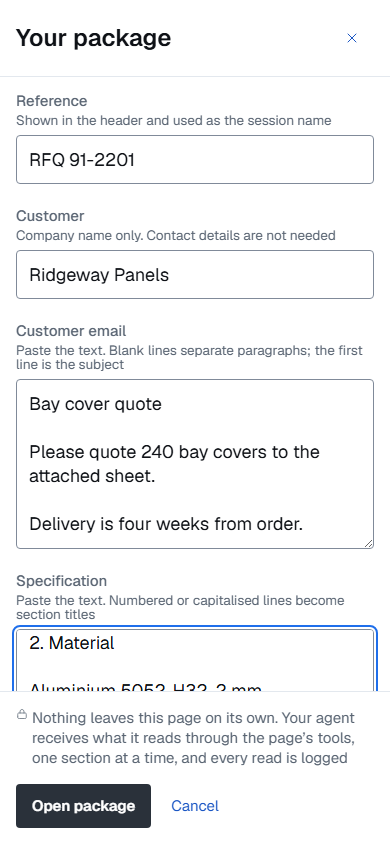
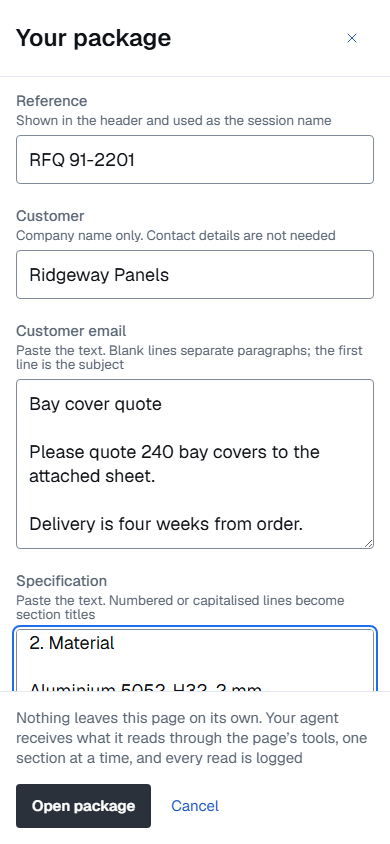
P5 fix: the privacy line stands on its words
A padlock sat in front of the one sentence on the page that makes a claim about
where a person's data goes, and an icon there decorates a claim rather than
carrying it. The line is plain secondary text now, on the same lane as the
actions under it. The task file's dialog item and the DESIGN.md dialog entry
say so, and the unit test that reads the sentence also asserts there is no
glyph beside it.

Changed region(s): [[0.0308, 0.8318, 0.9538, 0.9242]]

diff --git a/src/components/OpenPackageDialog.tsx b/src/components/OpenPackageDialog.tsx
@@ -1,6 +1,6 @@
 import { useEffect, useId, useRef, useState, type FormEvent } from 'react';
 import { ACCEPTED_IMAGE_TYPES, prepareDrawing as prepare_, type DrawingErrorCode } from '../data/prepare-drawing';
-import { CrossIcon, LockIcon } from '../icons';
+import { CrossIcon } from '../icons';
 import { Button } from './Button';
 
 /**
@@ -248,8 +248,10 @@ export function OpenPackageDialog({
         </div>
 
         <footer className="dialog__footer">
+          {/* Text alone: a padlock in front of this would decorate a claim about
+              where data goes, and that is the one claim on the page that has to
+              stand on its words. */}
           <p className="dialog__privacy">
-            <LockIcon />
             Nothing leaves this page on its own. Your agent receives what it reads through the page’s tools,
             one section at a time, and every read is logged
           </p>

diff --git a/src/components/OpenPackageDialog.test.tsx b/src/components/OpenPackageDialog.test.tsx
@@ -68,6 +68,9 @@ describe('the dialog’s form', () => {
       'Nothing leaves this page on its own. Your agent receives what it reads through the page’s tools, ' +
       'one section at a time, and every read is logged',
     );
+    // The sentence carries itself; a padlock in front of it would decorate a
+    // claim about where data goes, which is the one place decoration misleads.
+    expect(privacy?.querySelector('svg')).toBeNull();
   });
 
   test('the sample is offered only while a package a person opened is in front of them', () => {

diff --git a/src/styles/components.css b/src/styles/components.css
@@ -1803,10 +1803,9 @@
   text-overflow: ellipsis;
 }
 
+/* Plain text on the footer's own lane, so its left edge is the actions' left
+   edge under it. */
 .dialog__privacy {
-  display: flex;
-  align-items: start;
-  gap: var(--space-1);
   margin: 0;
 }
 

diff --git a/DESIGN.md b/DESIGN.md
@@ -144,7 +144,7 @@ The shared primitives, one row each. A task adds a modifier to a row that is her
 | Sheet | rendered by `SourcePane` (the narrow source) and `ChangeLogDrawer` (the narrow log) | `.source-pane--sheet`, `.change-log__sheet` | closed, open (modal, body scroll locked, focus returned on close) | full height below 1024px; the log sheet 40vh above it |
 | Dialog | `OpenPackageDialog` and `ConfirmDialog` | `.dialog`, `.dialog--confirm`, with `__form`, `__header`, `__title`, `__close`, `__body`, `__footer`, `__field`, `__label`, `__hint`, `__input`, `__textarea`, `__file`, `__file-name`, `__privacy`, `__message`, `__error`, `__actions` | closed, open, per-field validation (the message is text in `--state-conflict`, no icon) | `min(720px, 100% - 2 * --page-margin)` wide and at most 85vh, `--confirm` `min(480px, …)`; a full-height sheet below 1024px; its one primary `--control-large` |
 
-**Dialog anatomy.** Every dialog is three parts, and both of the components above build them: a **header** carrying the title and a close icon button at the right end (the cross glyph, accessible name "Close", doing what `Cancel` does; compact height at the two-column widths and `--control-large` below the breakpoint); a **body** holding the content, which is the only part that scrolls (`overflow-y: auto` on the body — never on the dialog, the form or the page); and a **footer** carrying the actions, with the privacy line above them in the package dialog, in view at every scroll position. A hairline separates each end from the body. On the full-height sheet below 1024px the three parts are the same and the footer sits at the bottom of the viewport, its block-end padding clearing the device's safe area. Padding: the body takes the pane-gutter step on every side, the header and the footer the paragraph step in block and the pane-gutter step inline; below the breakpoint all three take the paragraph step. Field spacing is the dialog-field role in § Spacing, layout, hit targets.
+**Dialog anatomy.** Every dialog is three parts, and both of the components above build them: a **header** carrying the title and a close icon button at the right end (the cross glyph, accessible name "Close", doing what `Cancel` does; compact height at the two-column widths and `--control-large` below the breakpoint); a **body** holding the content, which is the only part that scrolls (`overflow-y: auto` on the body — never on the dialog, the form or the page); and a **footer** carrying the actions, with the privacy line above them in the package dialog — plain `--ink-secondary` text, no icon, on the actions' lane — in view at every scroll position. A hairline separates each end from the body. On the full-height sheet below 1024px the three parts are the same and the footer sits at the bottom of the viewport, its block-end padding clearing the device's safe area. Padding: the body takes the pane-gutter step on every side, the header and the footer the paragraph step in block and the pane-gutter step inline; below the breakpoint all three take the paragraph step. Field spacing is the dialog-field role in § Spacing, layout, hit targets.
 
 **Change-log header by state.** The expanded log carries the actions of the state it is in and no others. `Play sample session` and the way into a package of your own are the status strip's before a session starts, and the confirm summary's after one is over; the log offers neither at any width.
 

diff --git a/tasks/P5-own-package.md b/tasks/P5-own-package.md
@@ -61,7 +61,7 @@ A native `<dialog>` (modal; `Esc` closes; focus trapped by the element; focus re
 3. `Customer email` — `<textarea>`, required, hint "Paste the text. Blank lines separate paragraphs; the first line is the subject".
 4. `Specification` — `<textarea>`, optional when a drawing is attached (§ Validation), hint "Paste the text. Numbered or capitalised lines become section titles".
 5. `Drawing` — `<input type="file" accept="image/png,image/jpeg,image/webp">` fronted by a secondary compact button `Choose image` and the chosen file's name; optional when a specification is pasted; hint "PNG, JPEG or WebP, up to 10 MB; a screenshot of a PDF page works. No text is read from the image: the agent reports what it cannot see as missing". The image is re-encoded before use (§ Image).
-6. A line in `--ink-secondary` with the lock icon: "Nothing leaves this page on its own. Your agent receives what it reads through the page’s tools, one section at a time, and every read is logged" — the honest version of T2/T3 for user content. It must not claim that the data stays in the browser: what the agent reads reaches the agent's provider.
+6. A line in `--ink-secondary`, text with no icon (amended 2026-09-02: an icon in front of a claim about where data goes decorates the one sentence that has to stand on its words), on the same lane as the actions under it: "Nothing leaves this page on its own. Your agent receives what it reads through the page’s tools, one section at a time, and every read is logged" — the honest version of T2/T3 for user content. It must not claim that the data stays in the browser: what the agent reads reaches the agent's provider.
 7. Actions, in the footer under the privacy line: `Open package` (the dialog's primary, large — a dialog is a screen, per the § Interaction states line this task adds) · `Cancel` (text) · `Use the sample package` (text, only while a user package is open). The header's close does what `Cancel` does.
 
 Validation on `Open package`: reference empty → "Enter a reference"; email empty → "Paste the customer email"; spec empty and no drawing → "Add the specification or a drawing" (under the Specification field); email or spec over 40,000 characters → "The {document} is longer than 40,000 characters; paste the relevant part"; file of another type (HEIC, PDF, SVG, …) → "Choose a PNG, JPEG or WebP. A screenshot of the PDF page works"; file over 10 MB → "Choose an image under 10 MB"; a file that does not decode → "This file could not be opened as an image". Errors per field in `--state-conflict`, text alone with no icon (amended 2026-09-02: the colour and the field's own `aria-invalid` carry the state, and a glyph repeats it a third time), tied to the field with `aria-describedby`; the first invalid field takes focus. The page never decides whether the image is a drawing: the person sees it in the Drawing tab, and the agent's `report_missing` covers content that is not an RFQ.
